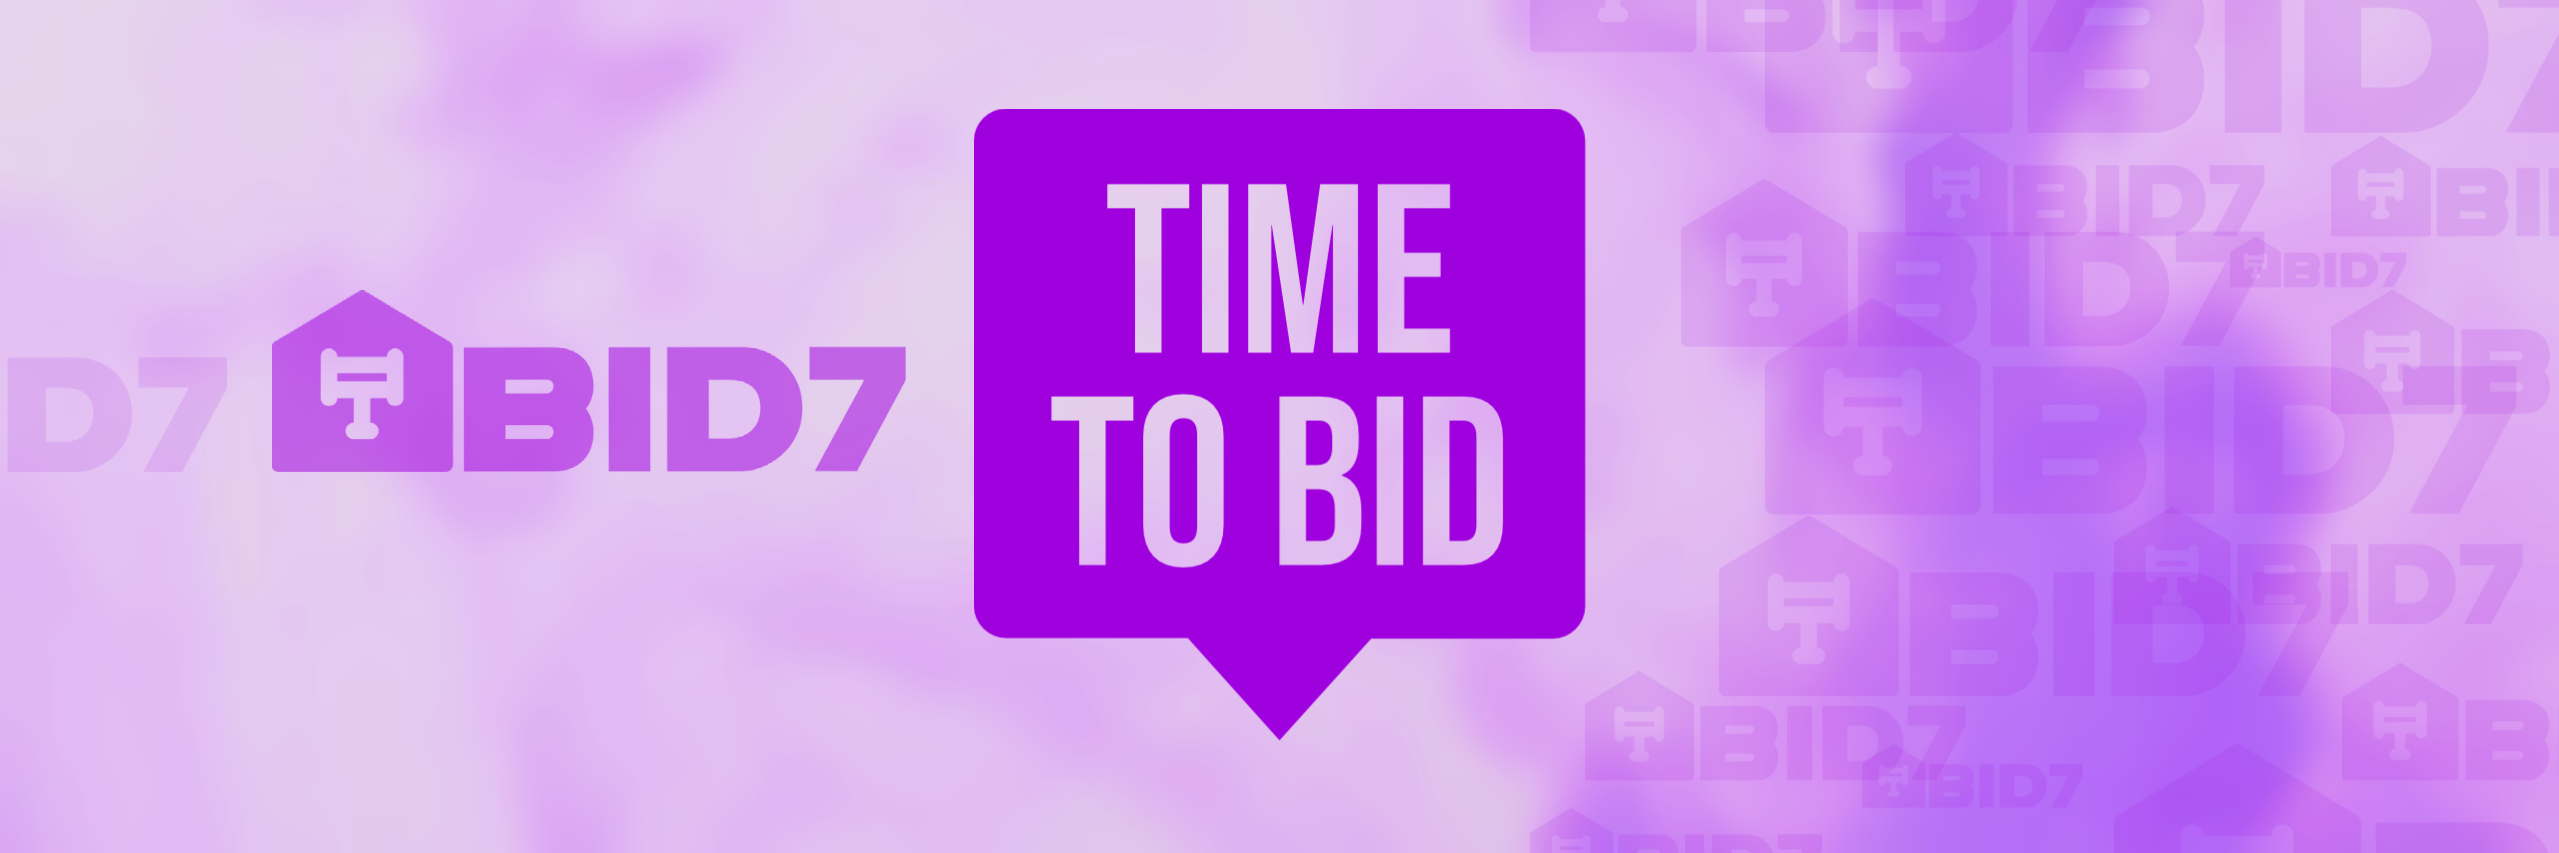
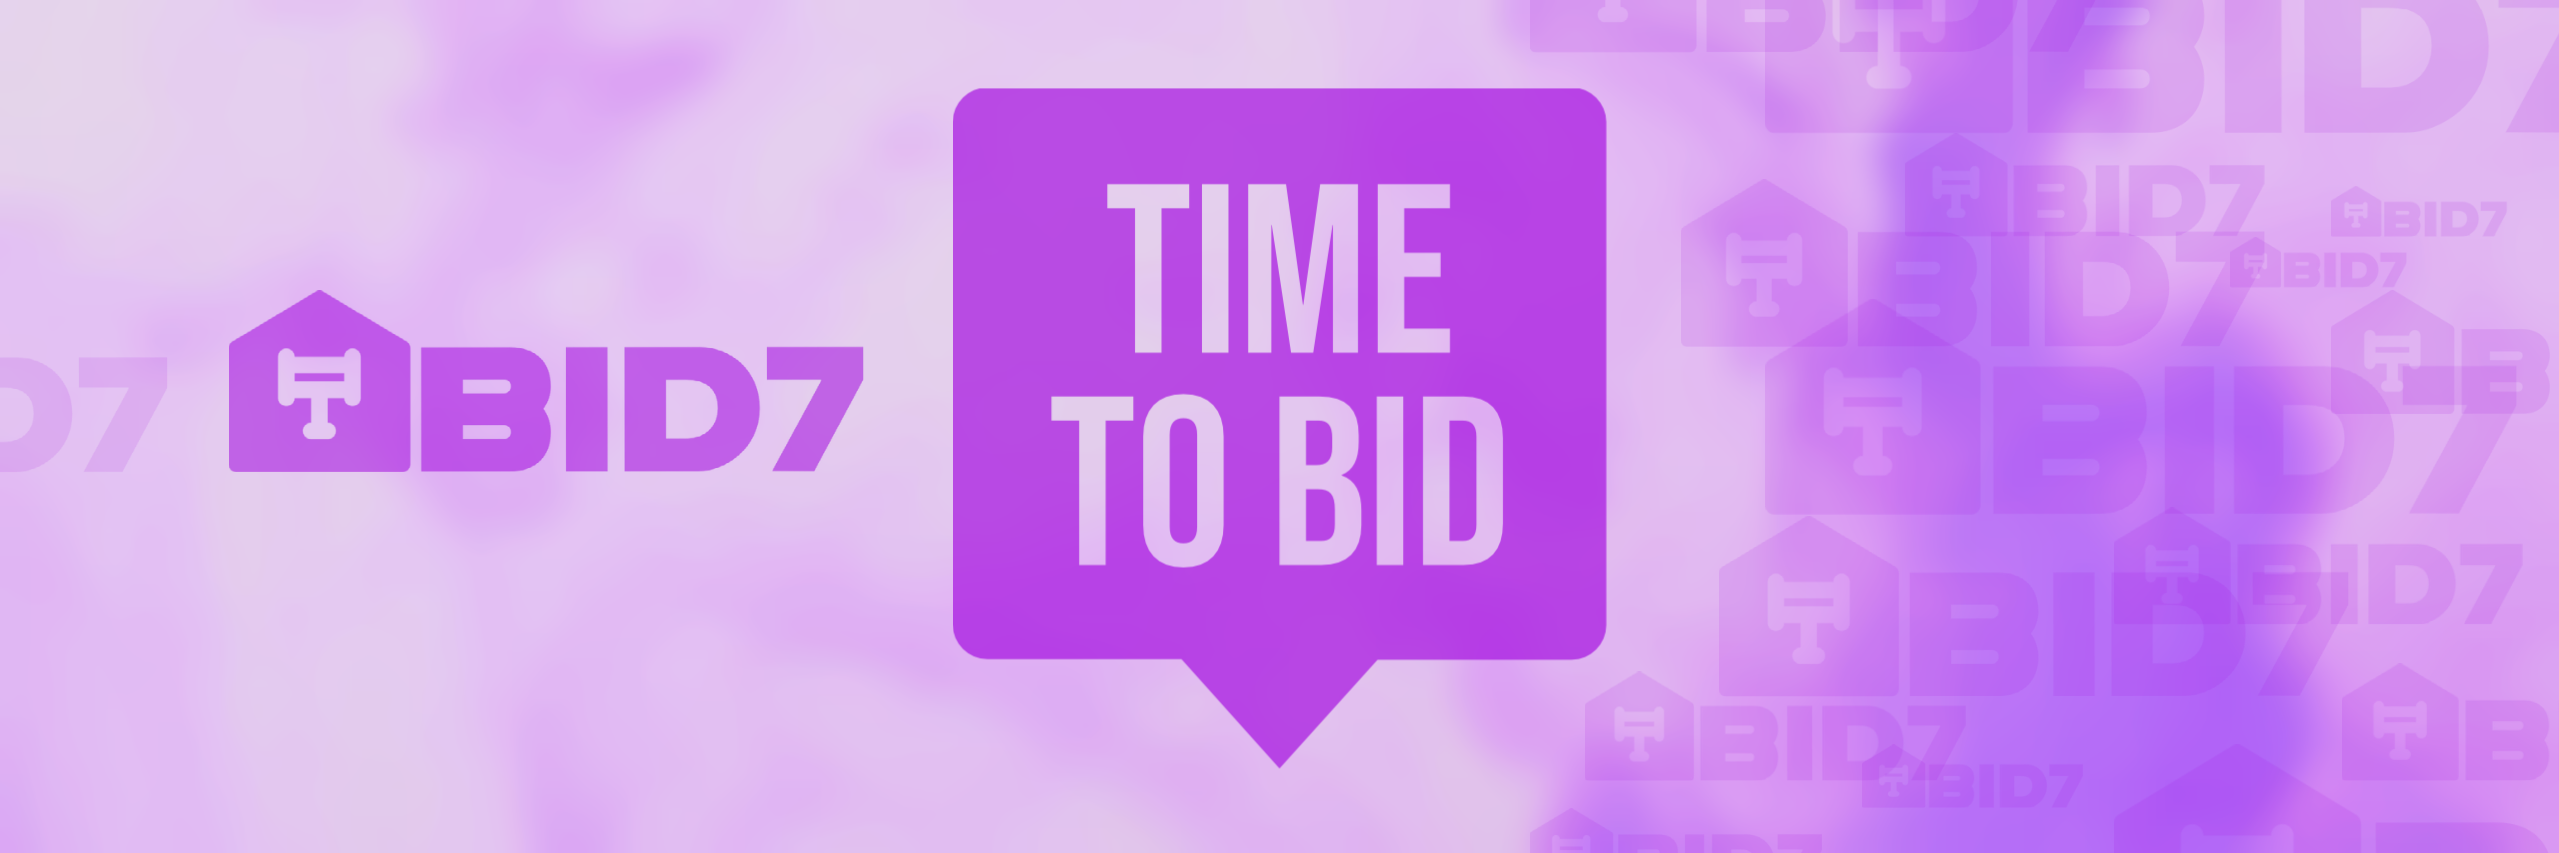
Adjusts header design on signup and login pages

Changed region(s): [[0.0617, 0.0914, 0.6483, 0.9144]]

diff --git a/index.html b/index.html
@@ -30,7 +30,7 @@
                 </li>
               </ul>
               <span class="navbar-text ms-4">
-                  <a href="/signup.html"><button class="btn btn-primary ml-5">Sign up</button></a>
+                  <a href="/signup.html"><button class="btn btn-primary ml-5"><strong>Sign up</strong></button></a>
               </span>
             </div>
           </div>
@@ -38,11 +38,13 @@
 
     <!-- BANNER -->
     <section class="container-fluid text-center px-0 mt-0">
-      <img src="/assets/bid7-banner1.png" style="max-width: 100%; min-height: 40vh; object-fit: cover;">
+      <img src="/assets/bid7-banner1.png" style="max-width: 100%; min-height: 60vh; object-fit: cover;">
     </section>
 
     <!-- CTA -->
-    <button class="btn btn-primary">Join us</button>
+    <div class="text-center my-5">
+    <a href="/signup.html"><button class="btn btn-lg btn-primary py-3 px-5"><strong>Create an account</strong></button></a>
+    </div>
 
 
     <!-- MAIN CONTENT -->

diff --git a/signup.html b/signup.html
@@ -35,10 +35,9 @@
     </nav>
 
     <!-- HEADER -->
-    <section class="container-fluid text-center px-5 mb-5">
-        <img class="text-center max-width-80% m-1" style="max-width: 30%; height: auto" src="/assets/logo-large.png">
-        <h1 class="text-info">The best online auction experience!</h1>
-    </section>
+    <div class="container-fluid text-center mt-5 mb-2">
+        <img class="" style="max-width: 15em; height: auto" src="/assets/logo-large.png">
+    </div>
 
     <!-- SIGN UP FORM -->
     <section>

diff --git a/login-newly-registered.html b/login-newly-registered.html
@@ -35,9 +35,9 @@
     </nav>
 
     <!-- HEADER -->
-    <section class="container-fluid text-center px-5 mb-5">
-        <img class="text-center max-width-80% m-1" style="max-width: 30%; height: auto" src="/assets/logo-large.png">
-    </section>
+    <div class="container-fluid text-center mt-5 mb-5">
+      <img class="" style="max-width: 15em; height: auto" src="/assets/logo-large.png">
+    </div>
 
     <!-- WELCOME MESSAGE -->
     <h2 class="text-center">Thank you for registering. Welcome!</h2>

diff --git a/login.html b/login.html
@@ -35,9 +35,9 @@
     </nav>
 
     <!-- HEADER -->
-    <section class="container-fluid text-center px-5 mb-5">
-        <img class="text-center max-width-80% m-1" style="max-width: 30%; height: auto" src="/assets/logo-large.png">
-    </section>
+    <div class="container-fluid text-center mt-5 mb-2">
+      <img class="" style="max-width: 15em; height: auto" src="/assets/logo-large.png">
+    </div>
 
     <!-- LOGIN FORM -->
     <section>
